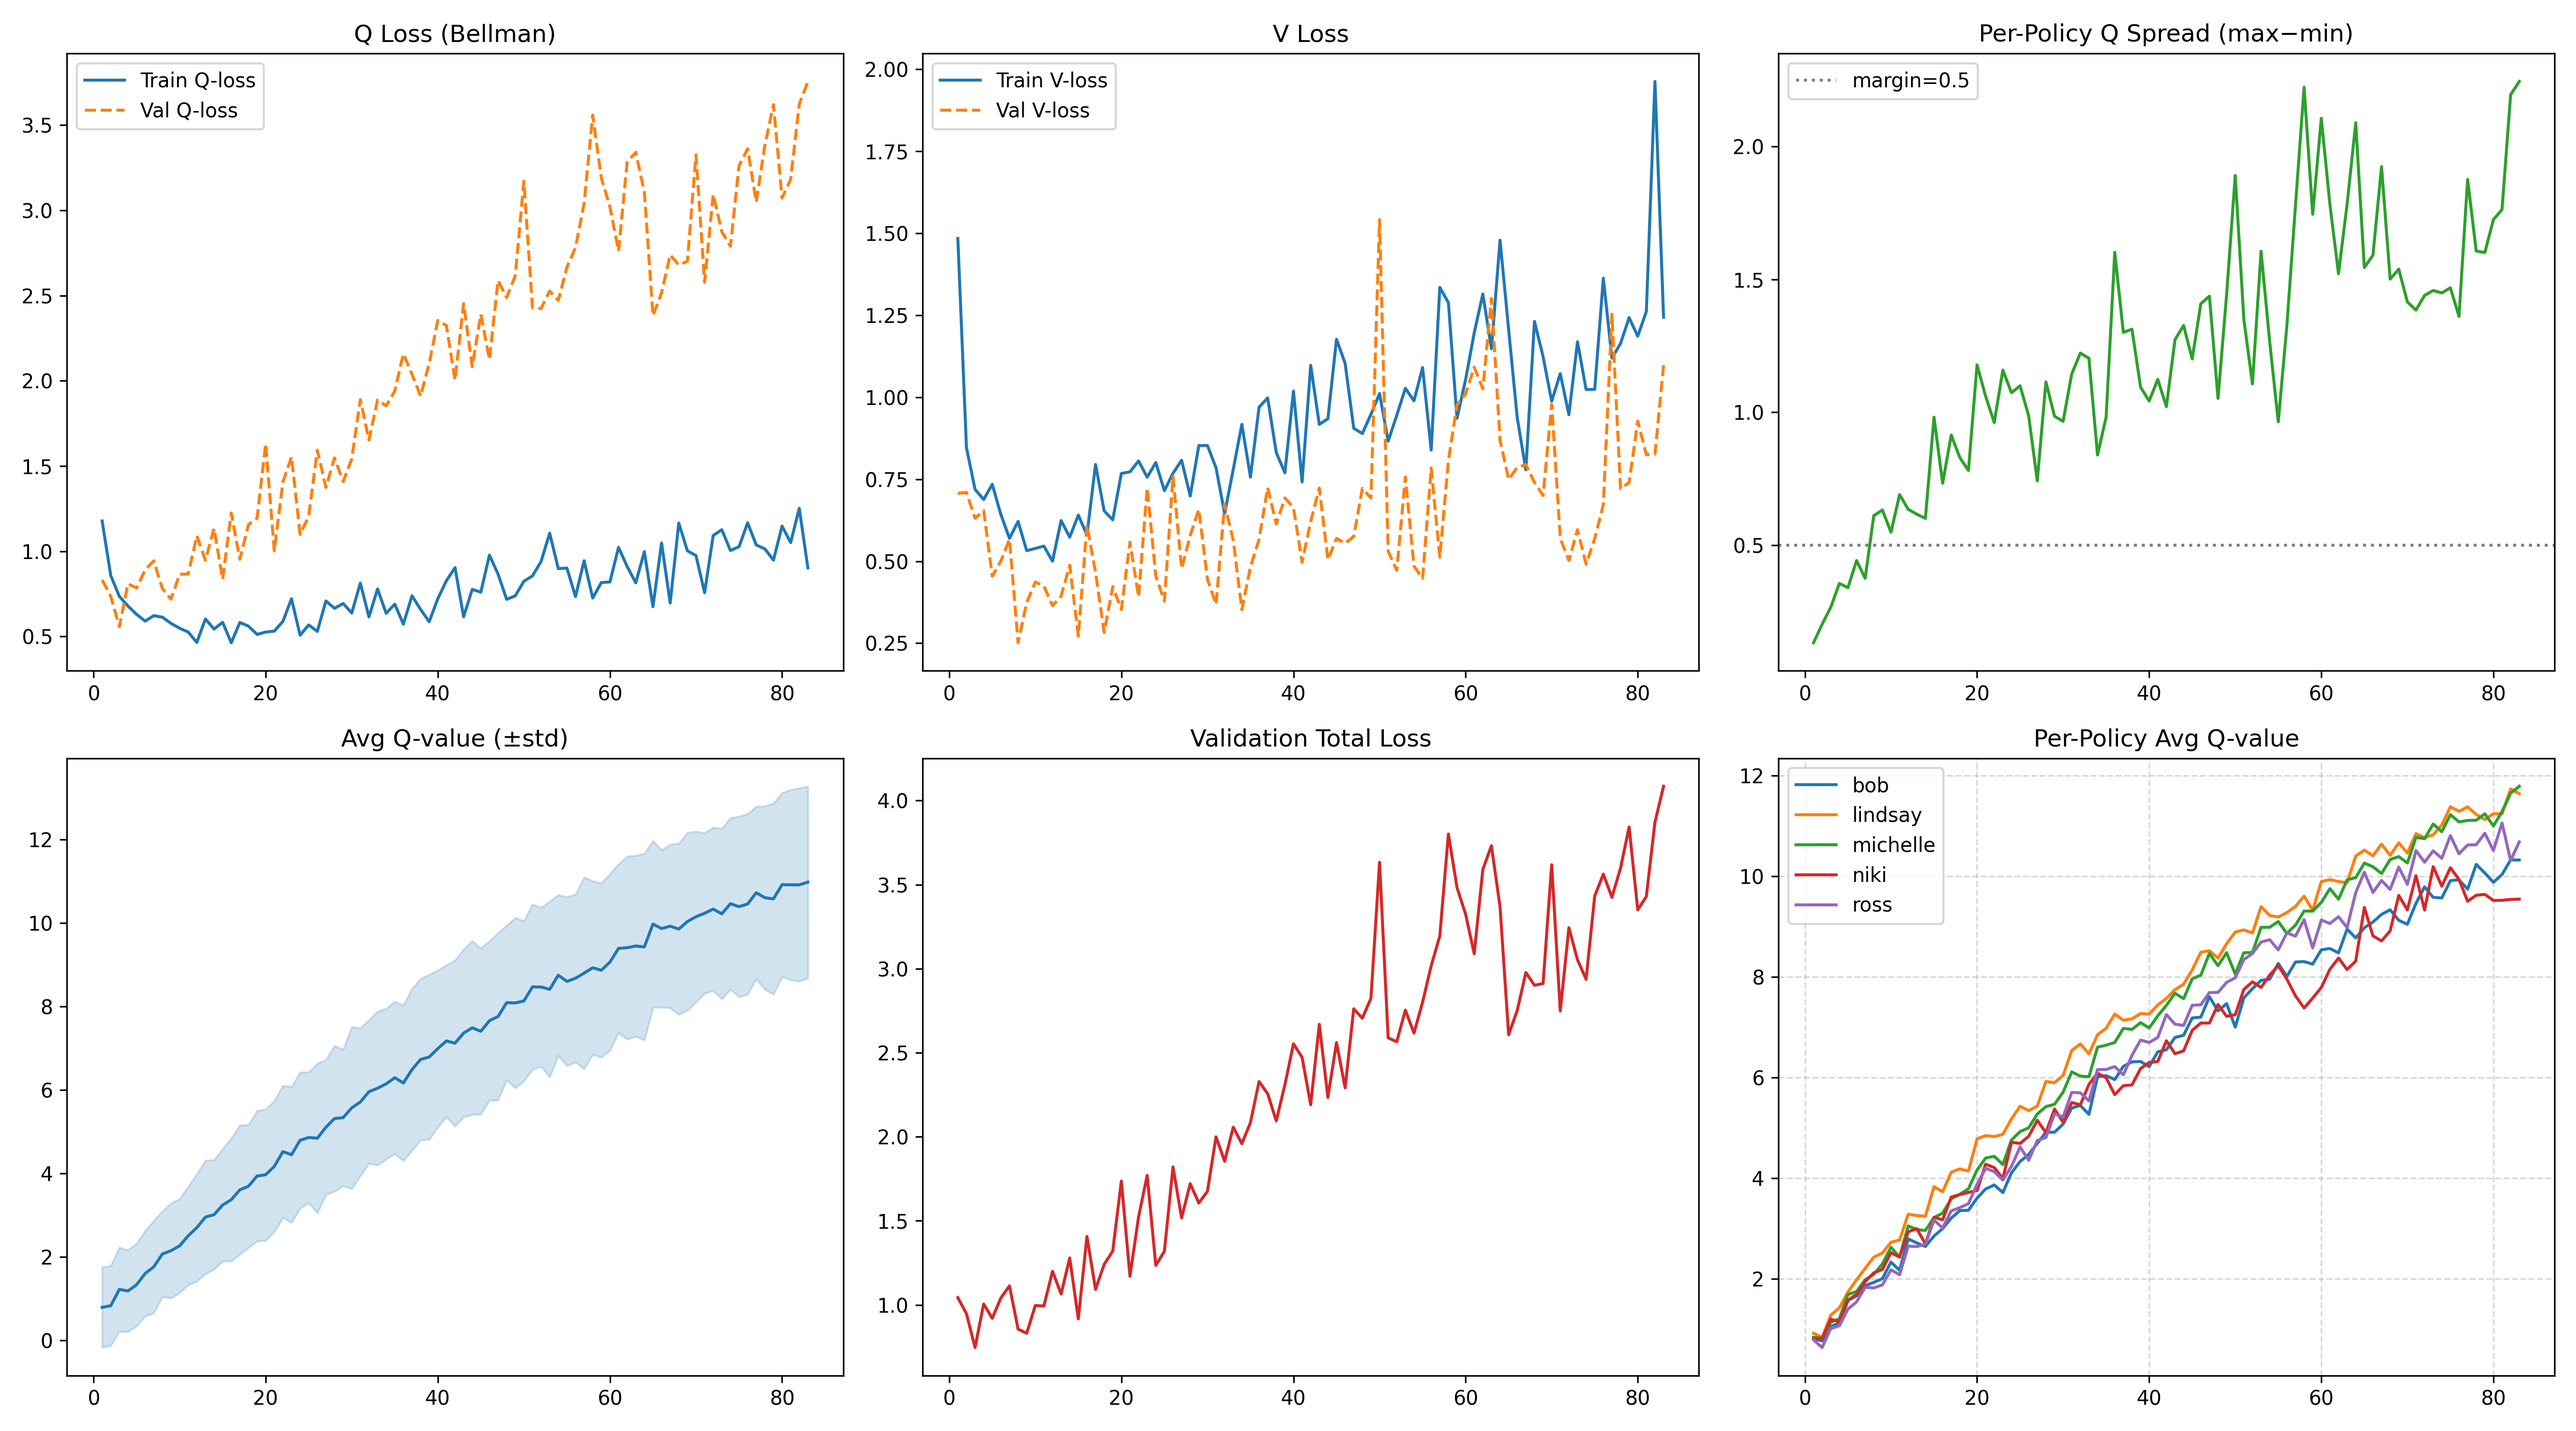
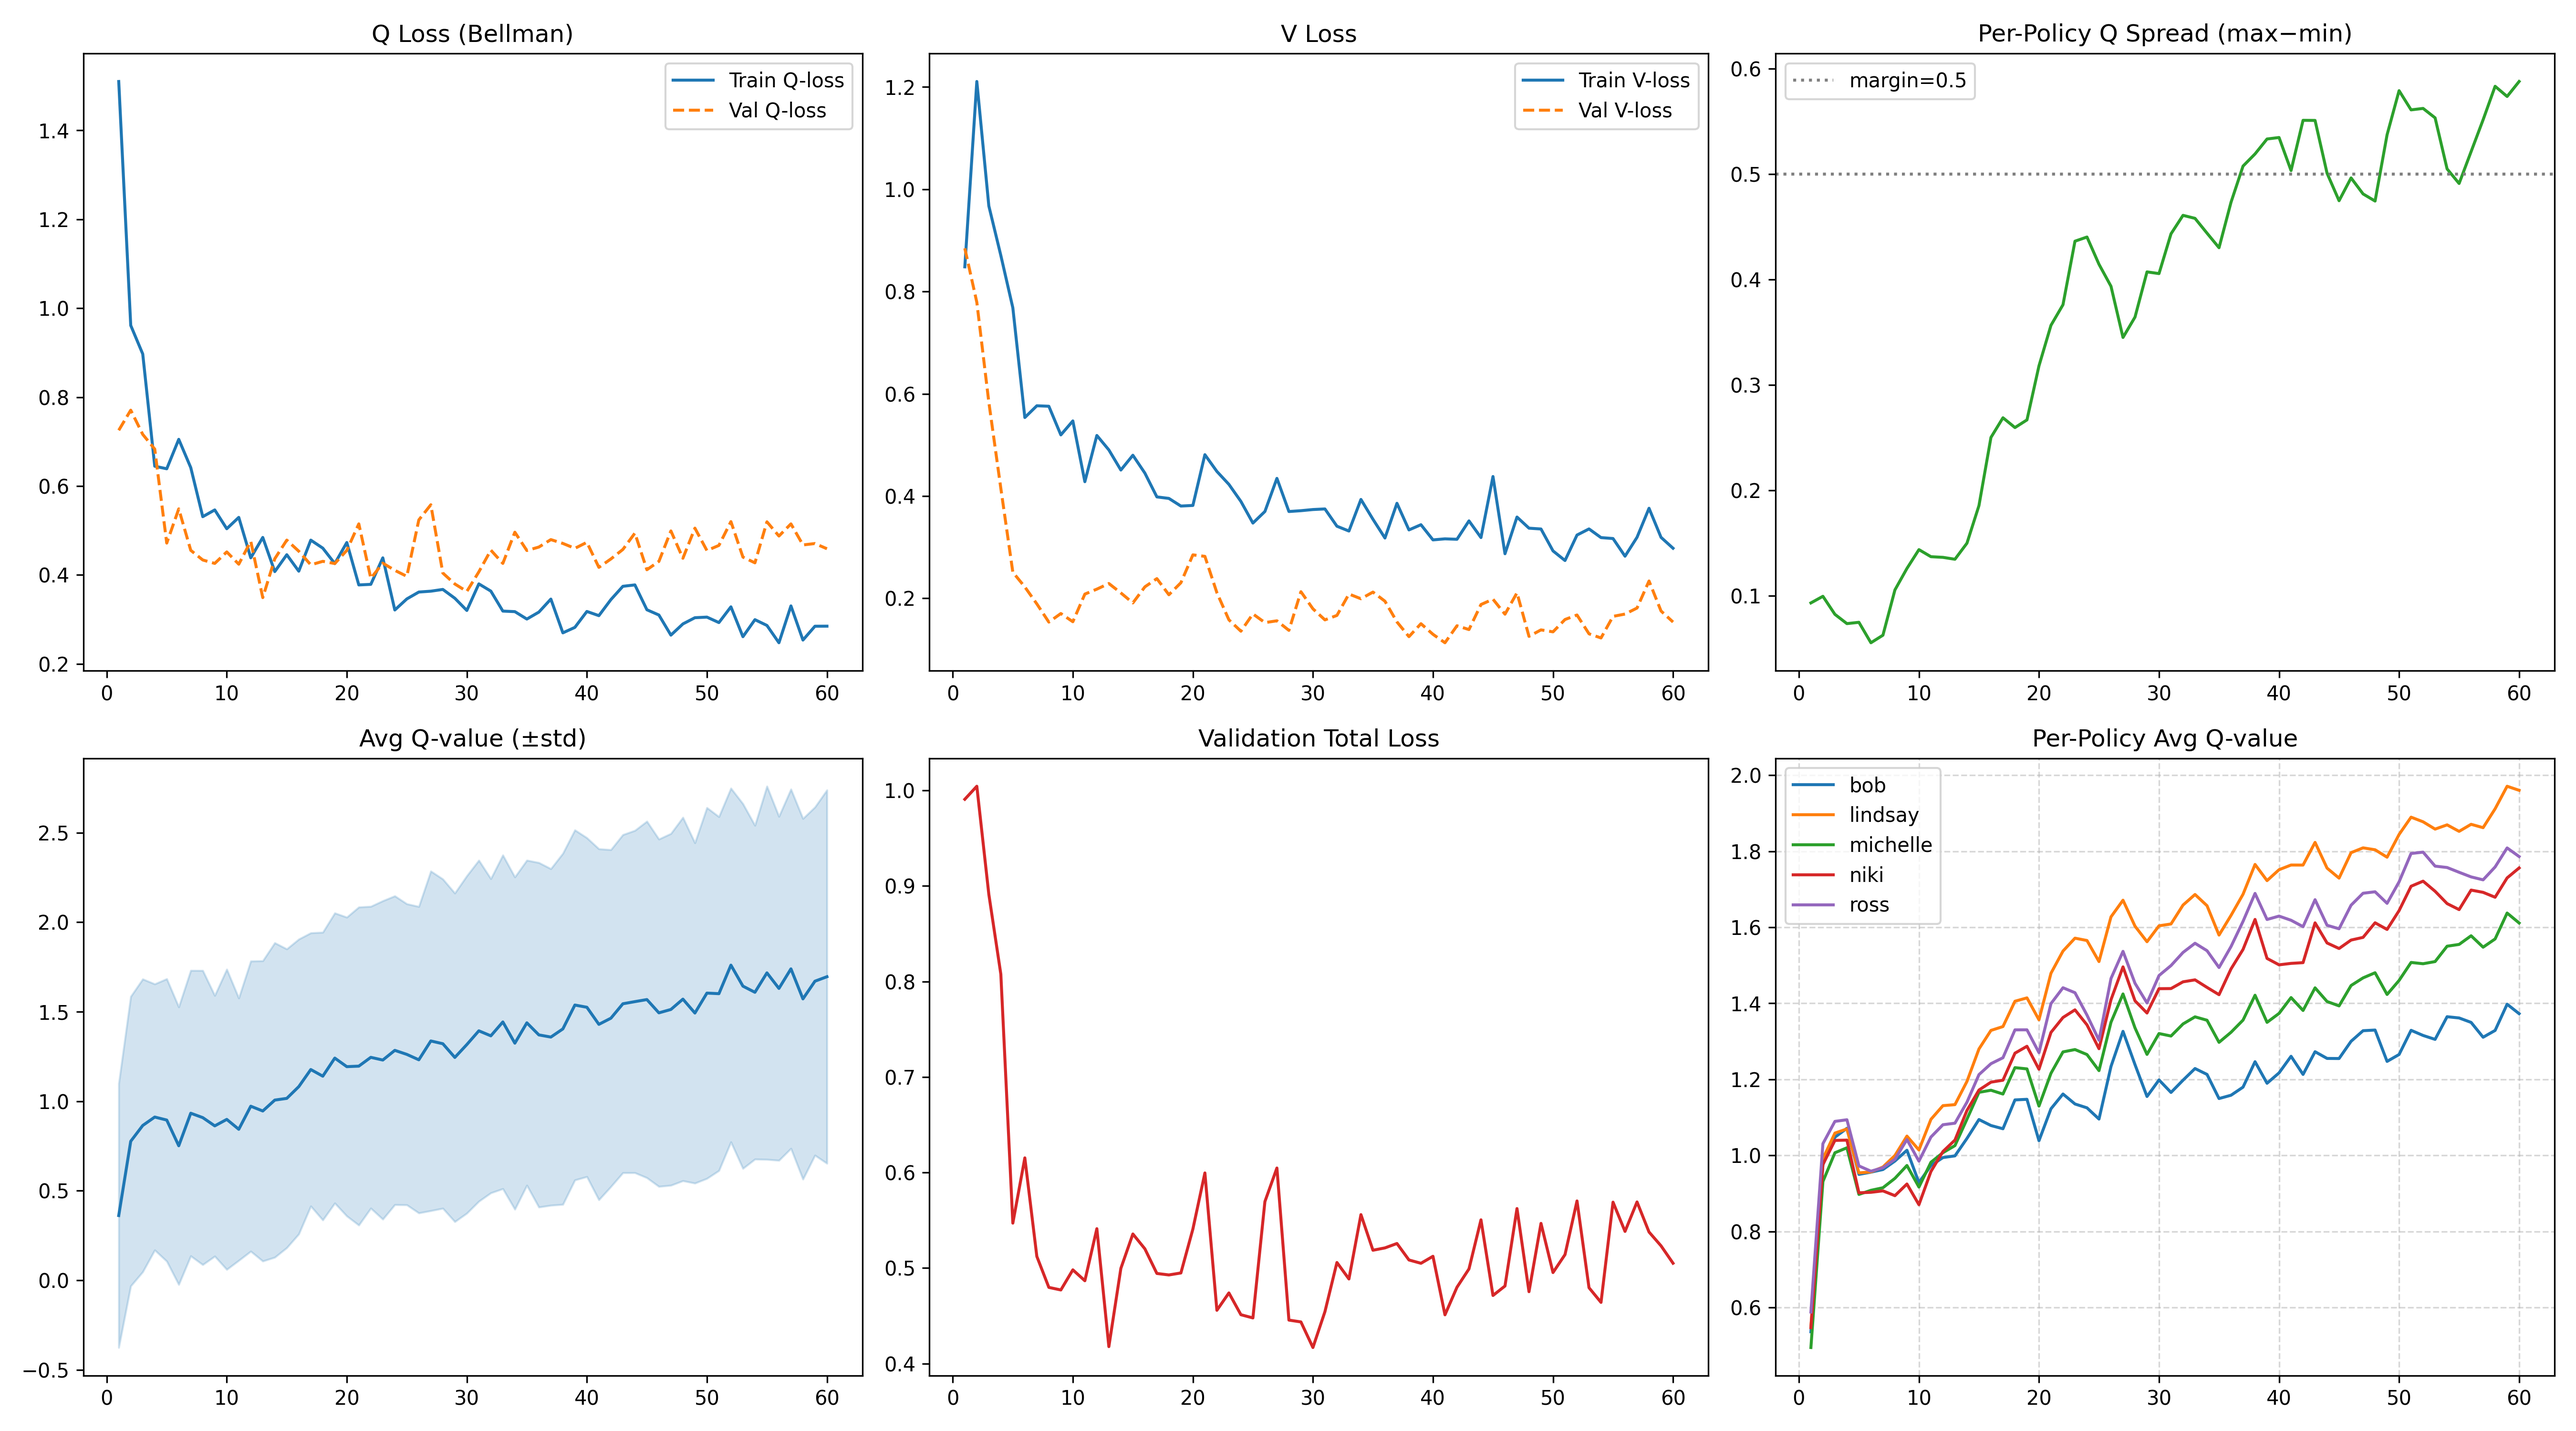
ok

diff --git a/config/settings.py b/config/settings.py
@@ -94,20 +94,20 @@ LLM_MODEL = os.environ.get("LLM_MODEL", OLLAMA_MODEL if LLM_PROVIDER == "ollama"
 # IQL TRAINING HYPERPARAMETERS
 # ═══════════════════════════════════════════════════════════════════════════════
 IQL_EPOCHS             = 800
-IQL_BATCH_SIZE         = 8
+IQL_BATCH_SIZE         = 32
 IQL_LR_Q               = 3e-4
 IQL_LR_V               = 1e-4
 IQL_WEIGHT_DECAY       = 1e-4
 IQL_VAL_SPLIT          = 0.2
-IQL_GAMMA              = 0.90
+IQL_GAMMA              = 0.50
 IQL_LAMBDA_V           = 0.3
-IQL_EARLY_STOP_PATIENCE = 80
-IQL_DROPOUT            = 0.15
-IQL_HIDDEN_DIM_Q       = 512
-IQL_HIDDEN_DIM_V       = 256
+IQL_EARLY_STOP_PATIENCE = 30
+IQL_DROPOUT            = 0.25
+IQL_HIDDEN_DIM_Q       = 128
+IQL_HIDDEN_DIM_V       = 128
 IQL_MARGIN             = 0.5    # minimum desired spread between best/worst Q
 IQL_MARGIN_WEIGHT      = 0.1    # weight of the margin loss term
-IQL_NOISE_STD          = 0.05   # Gaussian noise injected into states during training
+IQL_NOISE_STD          = 0.10   # Gaussian noise injected into states during training
 IQL_TARGET_TAU         = 0.005  # EMA smoothing for target V-network
 IQL_GRAD_CLIP          = 1.0    # max gradient norm
 IQL_INFERENCE_TEMP     = 0.3    # softmax temperature for policy selection
